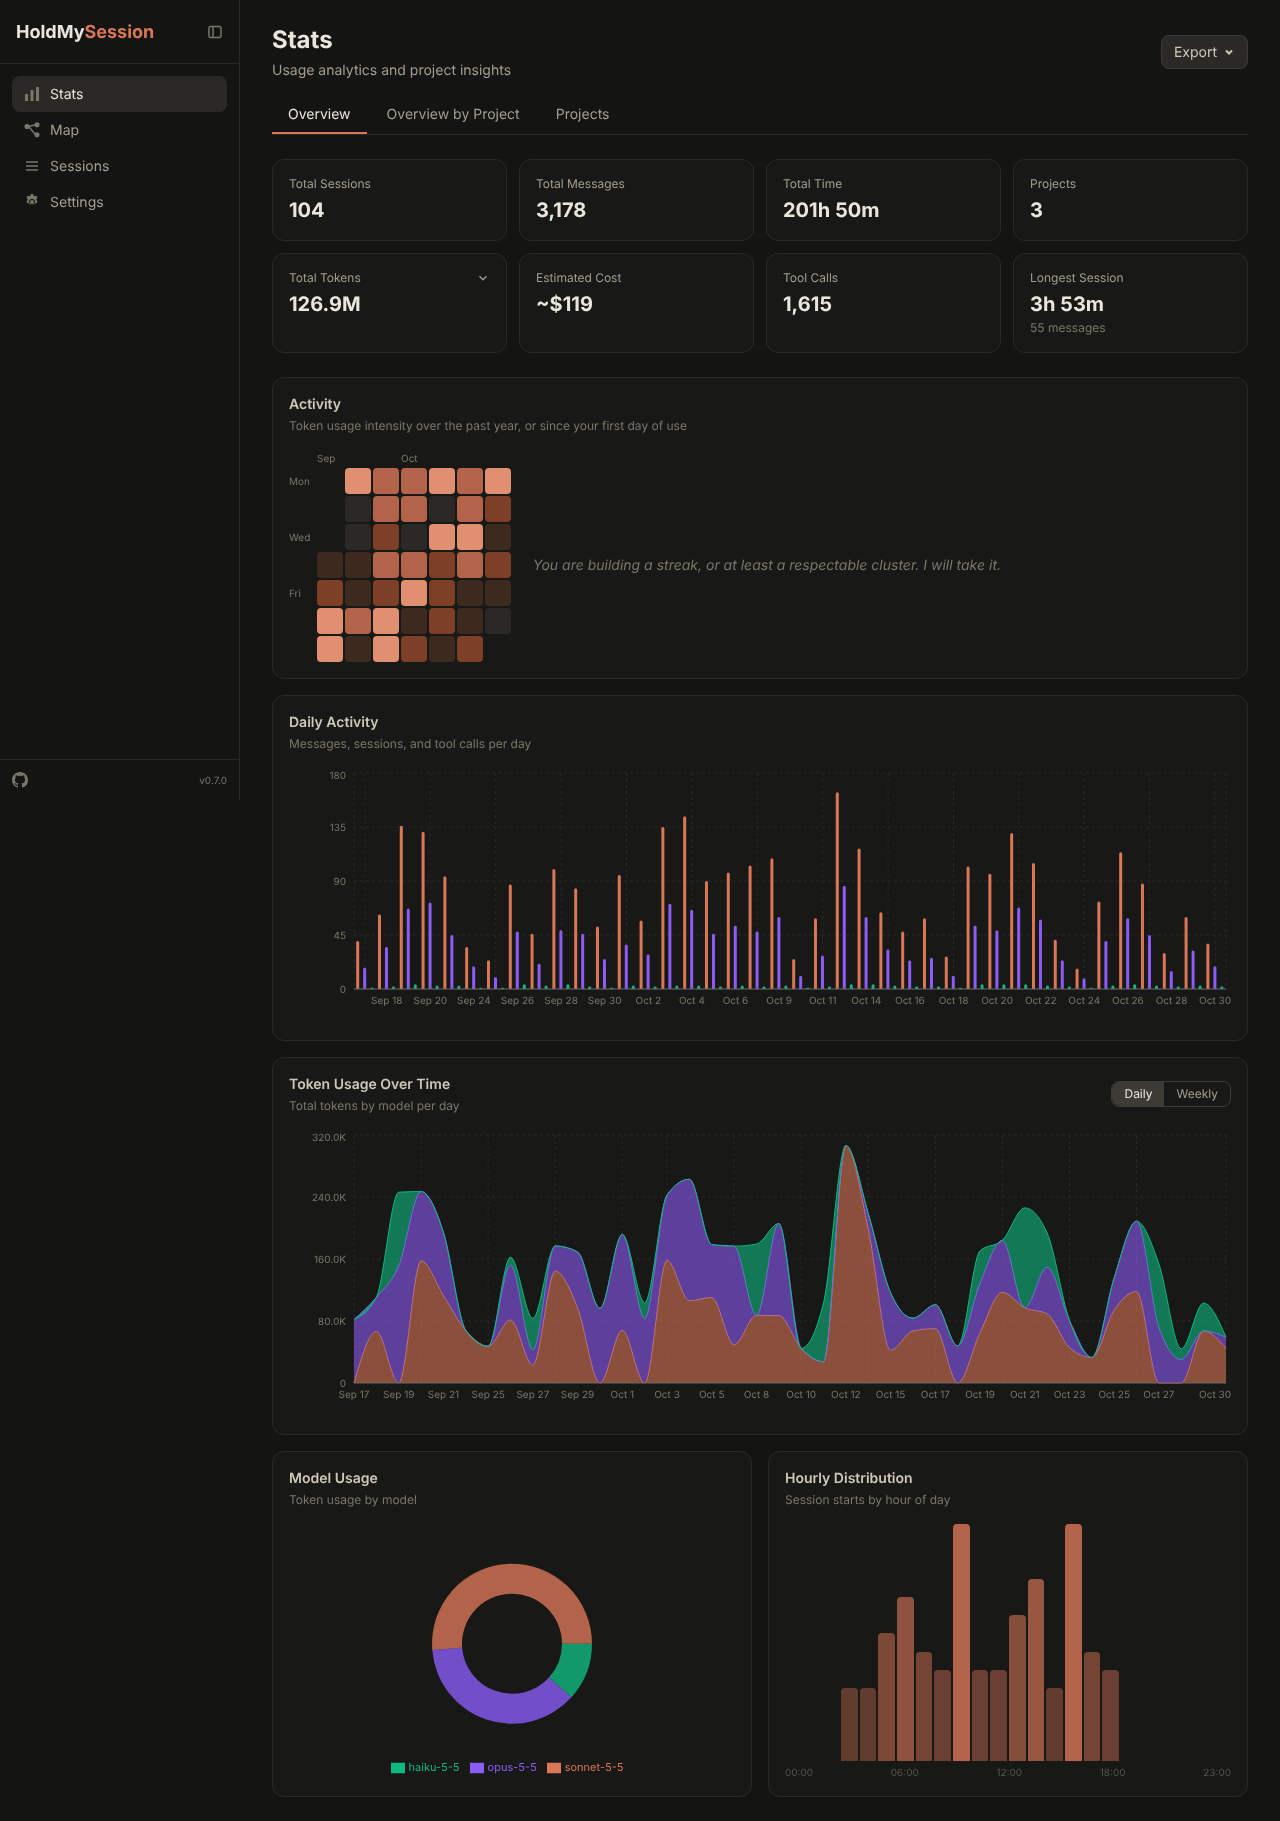
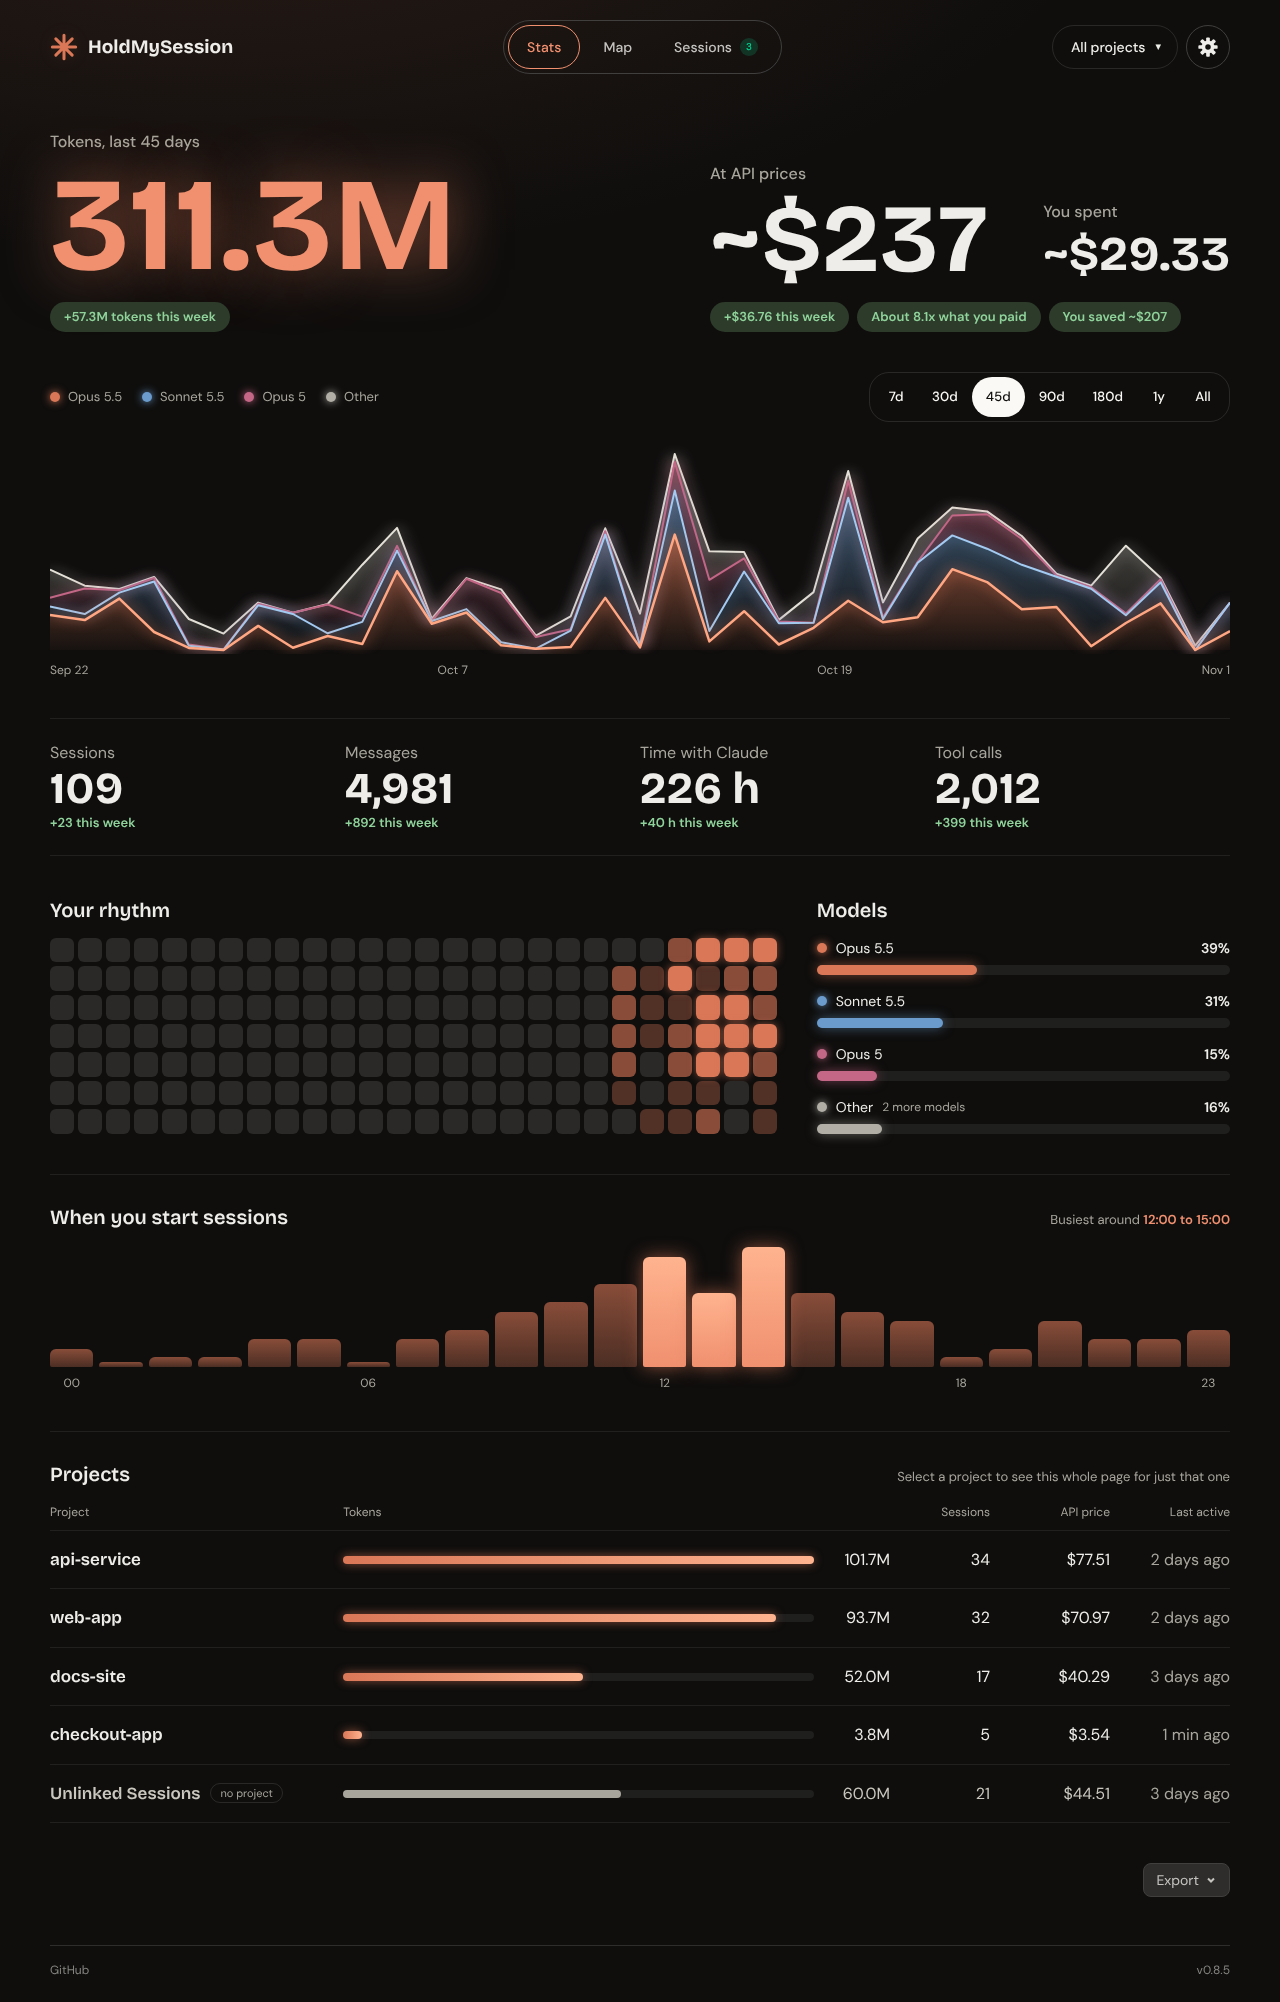
Retake the README screenshots for the new design, and show the session count on its own at desktop width
Claude-Session: https://claude.ai/code/session_01SJiXfkC38xTwLZ8GJJYmWf

diff --git a/apps/web/src/features/project-analytics/ProjectsTable.tsx b/apps/web/src/features/project-analytics/ProjectsTable.tsx
@@ -76,7 +76,7 @@ export function ProjectsTable({
               </span>
               <span className="w-16 text-right tabular-nums">{formatTokenCount(tokens)}</span>
             </span>
-            <span className="w-auto text-xs text-[color:var(--hms-mute)] tabular-nums sm:w-20 sm:text-right sm:text-base sm:text-inherit">{p.totalSessions} sessions</span>
+            <span className="w-auto text-xs text-[color:var(--hms-mute)] tabular-nums sm:w-20 sm:text-right sm:text-base sm:text-inherit">{p.totalSessions}<span className="sm:hidden"> sessions</span></span>
             <span className="w-auto text-xs text-[color:var(--hms-mute)] tabular-nums sm:w-[100px] sm:text-right sm:text-base sm:text-inherit">{cost !== undefined ? formatMoney(cost) : '-'}</span>
             <span className="w-auto text-xs text-[color:var(--hms-mute)] sm:w-[100px] sm:text-right sm:text-base">{formatAgo(p.lastSessionAt)}</span>
           </Link>
